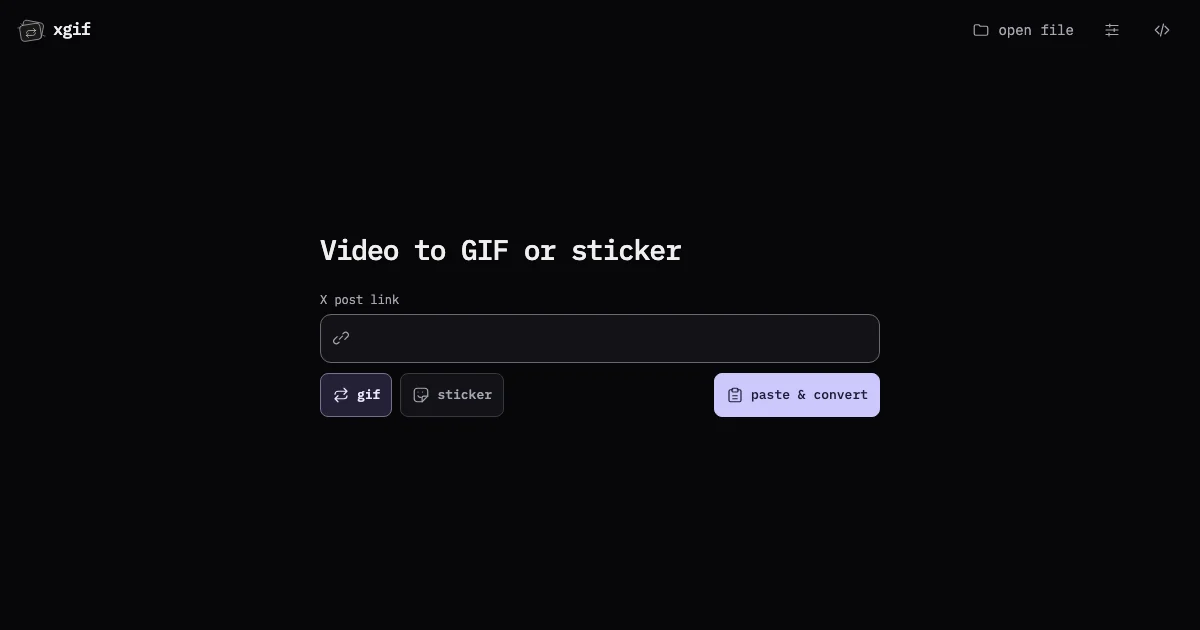
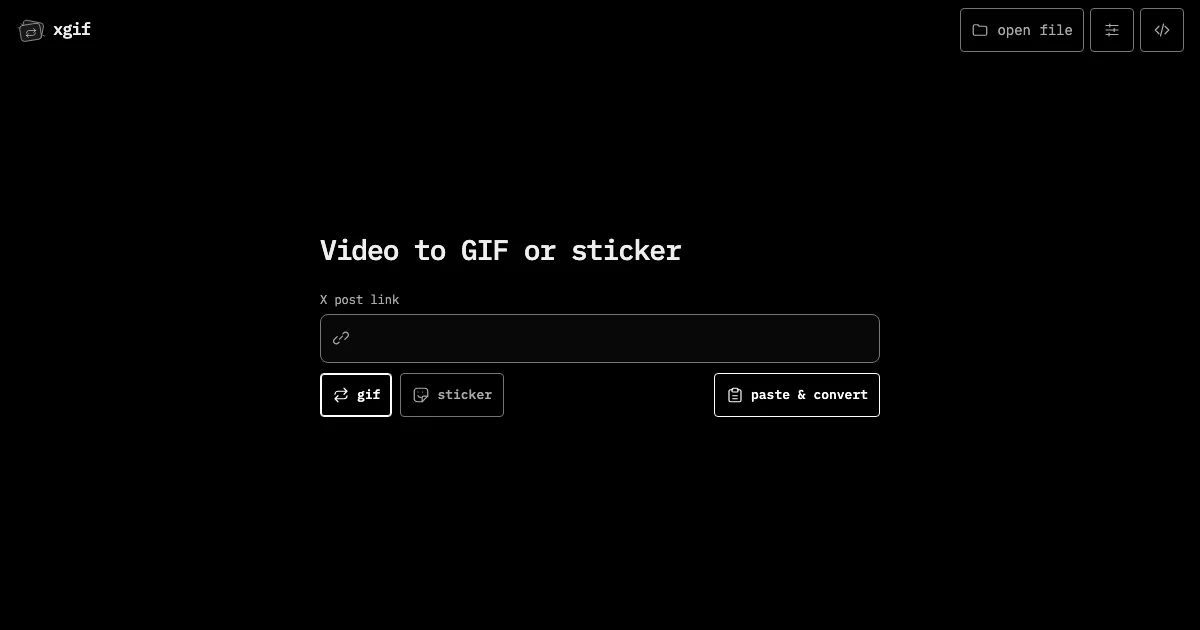
Use monochrome frames for xgif controls

diff --git a/src/style.css b/src/style.css
@@ -1,17 +1,16 @@
 :root {
   color-scheme: dark;
   font: 14px/1.5 "IBM Plex Mono", monospace;
-  color: #eeeeef;
-  background: #070709;
-  --surface: #121216;
-  --raised: #1c1c22;
-  --outline: #383842;
-  --input-outline: #676772;
-  --hint: #a5a5b2;
-  --accent: #cbc8fb;
-  --ink: #211c39;
+  color: #eee;
+  background: #000;
+  --surface: #080808;
+  --raised: #191919;
+  --outline: #3c3c3c;
+  --input-outline: #767676;
+  --hint: #aaa;
+  --frame: #fff;
   --control-size: 44px;
-  --corner: 8px;
+  --corner: 4px;
 }
 * { box-sizing: border-box; }
 [hidden] { display: none !important; }
@@ -21,7 +20,7 @@ button, a { -webkit-tap-highlight-color: transparent; }
 button { cursor: pointer; }
 button:disabled { cursor: default; opacity: .55; }
 a { color: inherit; }
-:focus-visible { outline: 2px solid var(--accent); outline-offset: 3px; }
+:focus-visible { outline: 2px solid var(--frame); outline-offset: 3px; }
 fieldset { border: 0; padding: 0; margin: 0; min-inline-size: 0; }
 .symbols { position: absolute; inline-size: 0; block-size: 0; }
 .visually-hidden { position: absolute; inline-size: 1px; block-size: 1px; overflow: hidden; clip-path: inset(50%); white-space: nowrap; }
@@ -43,7 +42,7 @@ fieldset { border: 0; padding: 0; margin: 0; min-inline-size: 0; }
   gap: 8px;
   min-height: var(--control-size);
   padding: 0 10px;
-  border: 0;
+  border: 1px solid var(--input-outline);
   border-radius: var(--corner);
   background: transparent;
   color: var(--hint);
@@ -63,11 +62,11 @@ h1 { margin: 0 0 24px; font-size: clamp(21px, 4.5vw, 28px); line-height: 1.2; fo
   min-height: 49px;
   padding: 3px 3px 3px 11px;
   border: 1px solid var(--input-outline);
-  border-radius: 11px;
+  border-radius: 8px;
   background: var(--surface);
 }
-.command:focus-within { border-color: var(--accent); }
-.command:has([aria-invalid=true]) { border-color: #ee9eaa; }
+.command:focus-within { border-color: var(--frame); }
+.command:has([aria-invalid=true]) { border-color: var(--frame); border-style: dashed; }
 .input-icon { color: var(--hint); }
 #post, #file-name { flex: 1; min-width: 0; padding: 0; border: 0; outline: 0; background: transparent; font-size: 16px; }
 #post { height: 41px; }
@@ -75,7 +74,7 @@ h1 { margin: 0 0 24px; font-size: clamp(21px, 4.5vw, 28px); line-height: 1.2; fo
 .clear-button, .convert-button { display: grid; place-items: center; flex: none; min-height: 41px; border: 0; border-radius: var(--corner); background: transparent; }
 .clear-button { width: 32px; padding: 0; color: var(--hint); }
 .clear-button .icon { width: 16px; height: 16px; }
-.convert-button { padding: 0 11px; background: var(--raised); color: var(--accent); font-size: 13px; }
+.convert-button { padding: 0 11px; border: 1px solid var(--frame); color: var(--frame); font-size: 13px; }
 .clear-button:focus-visible, .convert-button:focus-visible { outline-offset: -2px; }
 
 .conversion-actions, .formats, .working, .result-bar, .result-actions, .dialog-header { display: flex; align-items: center; gap: 8px; }
@@ -88,20 +87,20 @@ h1 { margin: 0 0 24px; font-size: clamp(21px, 4.5vw, 28px); line-height: 1.2; fo
   gap: 7px;
   min-height: var(--control-size);
   padding: 0 11px;
-  border: 1px solid var(--outline);
+  border: 1px solid var(--input-outline);
   border-radius: var(--corner);
-  background: var(--surface);
+  background: #000;
   font-size: 13px;
   font-weight: 500;
   text-decoration: none;
   white-space: nowrap;
 }
-.button.primary, #paste { background: var(--accent); border-color: var(--accent); color: var(--ink); }
+.button.primary, #paste { border-color: var(--frame); color: var(--frame); font-weight: 500; }
 .formats label { position: relative; cursor: pointer; }
 .formats label > span { color: var(--hint); }
 .formats input { position: absolute; width: 1px; height: 1px; opacity: 0; }
-.formats input:checked + span { border-color: #77718e; background: #242137; color: #ece9ff; }
-.formats input:focus-visible + span { outline: 2px solid var(--accent); outline-offset: 2px; }
+.formats input:checked + span { border-color: var(--frame); box-shadow: inset 0 0 0 1px var(--frame); color: var(--frame); }
+.formats input:focus-visible + span { outline: 2px solid var(--frame); outline-offset: 2px; }
 fieldset:disabled .formats { opacity: .55; }
 .clip-picker { display: flex; align-items: center; gap: 8px; margin-top: 10px; font-size: 12px; color: var(--hint); }
 select, .trim-options input { min-width: 0; min-height: 40px; padding: 5px 8px; border: 1px solid var(--input-outline); border-radius: var(--corner); background: var(--surface); font-size: 16px; }
@@ -120,22 +119,21 @@ dialog::backdrop { background: #000b; }
 #trim-help, #status, #result-help, #result-size { color: var(--hint); font-size: 12px; }
 .activity:has(#status:not(:empty), #working:not([hidden])) { margin-top: 10px; }
 #status { margin: 0; text-wrap: pretty; }
-#status[data-error] { padding: 8px 10px; border-inline-start: 2px solid #ee9eaa; background: #211619; color: #ffc4cb; }
+#status[data-error] { padding: 8px 10px; border-inline-start: 2px solid #eee; background: #141414; color: #fff; }
 .working { margin-top: 8px; }
-progress { flex: 1; min-width: 0; height: 5px; accent-color: var(--accent); }
+progress { flex: 1; min-width: 0; height: 5px; accent-color: var(--frame); }
 #result { margin-top: 16px; padding: 10px; border: 1px solid var(--outline); border-radius: 11px; background: var(--surface); }
-.preview { display: grid; place-items: center; min-height: 112px; overflow: hidden; border-radius: 6px; background: #09090b; }
+.preview { display: grid; place-items: center; min-height: 112px; overflow: hidden; border-radius: 6px; background: #090909; }
 .preview img { display: block; max-width: 100%; max-height: min(27rem, 48svh); object-fit: contain; }
 .result-bar { flex-wrap: wrap; padding-top: 10px; }
 .result-actions { flex-wrap: wrap; }
 #result-help { margin: 8px 0 0; text-wrap: pretty; }
-.drop-hint { display: none; position: absolute; z-index: 2; inset: 12px; place-items: center; border: 1px dashed var(--accent); border-radius: 11px; background: #09090aee; pointer-events: none; }
+.drop-hint { display: none; position: absolute; z-index: 2; inset: 12px; place-items: center; border: 1px dashed var(--frame); border-radius: 11px; background: #000e; pointer-events: none; }
 .workspace[data-drop] .drop-hint { display: grid; }
 
 @media (hover: hover) {
   :is(.tool-button, .button, .clear-button, .setting-row):hover, .formats input:not(:checked) + span:hover { background: var(--raised); }
-  .convert-button:hover { background: #2b273d; }
-  .button.primary:hover, #paste:hover { background: #eceaff; }
+  .button.primary:hover, #paste:hover, .convert-button:hover { background: var(--frame); color: #000; }
 }
 @media (max-width: 375px) {
   .site-header { padding-inline: max(8px, env(safe-area-inset-left)) max(8px, env(safe-area-inset-right)); }

diff --git a/index.html b/index.html
@@ -4,7 +4,7 @@
   <meta charset="UTF-8">
   <meta name="viewport" content="width=device-width, initial-scale=1, viewport-fit=cover">
   <meta name="color-scheme" content="dark">
-  <meta name="theme-color" content="#070709">
+  <meta name="theme-color" content="#000000">
   <meta name="description" content="Convert public X videos to GIFs and animated WebP stickers on your device.">
   <meta property="og:title" content="xgif">
   <meta property="og:description" content="Make looping GIFs and animated stickers from X videos.">
